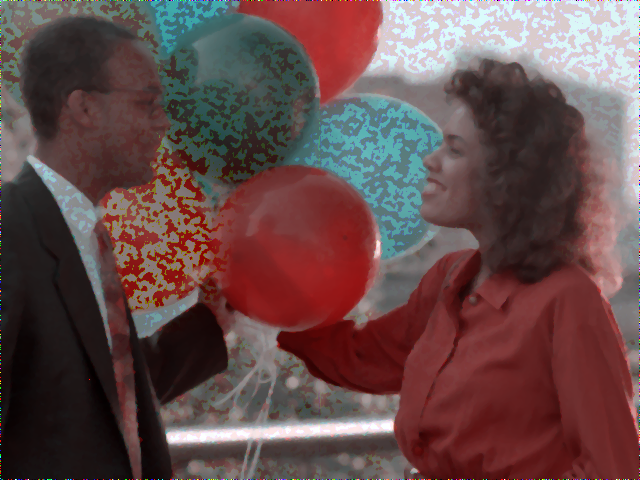
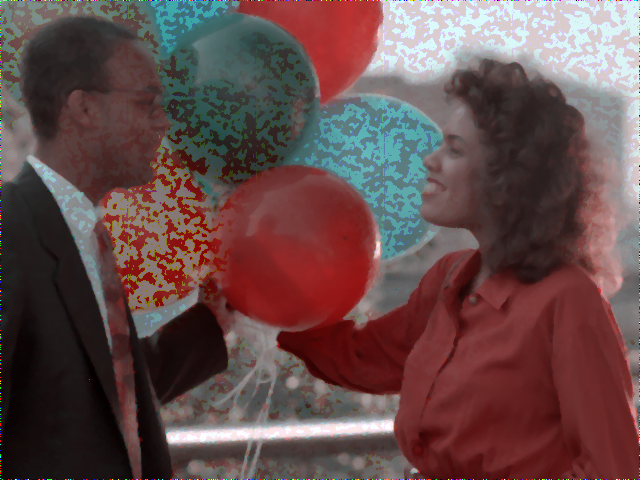
RENAME

diff --git a/src/medianfilterserial/Image.java b/src/medianfilterserial/Image.java
@@ -3,7 +3,7 @@
  * To change this template file, choose Tools | Templates
  * and open the template in the editor.
  */
-package medianfilterserialized;
+package medianfilterserial;
 
 import java.awt.Color;
 import java.awt.Graphics2D;
@@ -73,8 +73,8 @@ public class Image {
 
     public BufferedImage[] splitImage() throws Exception {
         long startTime = System.currentTimeMillis();
-        int rows = 2; //You should decide the values for rows and cols variables
-        int cols = 2;
+        int rows = 5; //You should decide the values for rows and cols variables
+        int cols = 5;
         int chunks = rows * cols;
         File f = new File(this.input);
         this.img = ImageIO.read(f);
@@ -105,8 +105,8 @@ public class Image {
 
     public void combineChunks(BufferedImage imgs[]) throws IOException, Exception {
         long startTime = System.currentTimeMillis();
-        int rows = 2;   //we assume the no. of rows and cols are known and each chunk has equal width and height
-        int cols = 2;
+        int rows = 5;   //we assume the no. of rows and cols are known and each chunk has equal width and height
+        int cols = 5;
         int chunks = rows * cols;
         int chunkWidth, chunkHeight;
         chunkWidth = imgs[0].getWidth();

diff --git a/src/medianfilterserial/MedianFilterSerial.java b/src/medianfilterserial/MedianFilterSerial.java
@@ -3,7 +3,7 @@
  * To change this template file, choose Tools | Templates
  * and open the template in the editor.
  */
-package medianfilterserialized;
+package medianfilterserial;
 
 /**
  *
@@ -20,14 +20,14 @@ import java.util.logging.Level;
 import java.util.logging.Logger;
 import javax.imageio.*;
 
-class MedianFilterSerialized {
+class MedianFilterSerial {
 
     //PICTURES http://people.sc.fsu.edu/~jburkardt/data/pgma/pgma.html
     public static void main(String[] a) throws Throwable {
         final String fileType = "png";
         final String file = "input2.png";
         final String outputFile = "output2.png";
-        final int chunks = 4;
+        final int chunks = 25;
   
         long startTime = System.currentTimeMillis();
 
